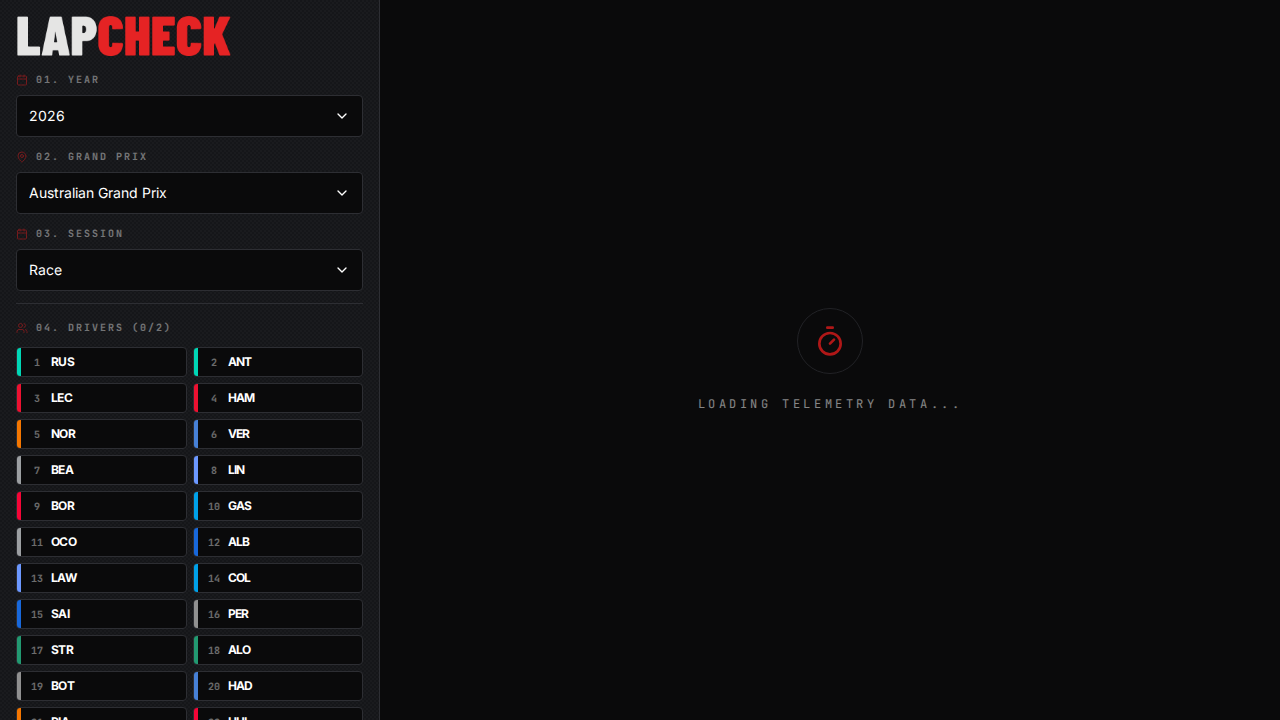
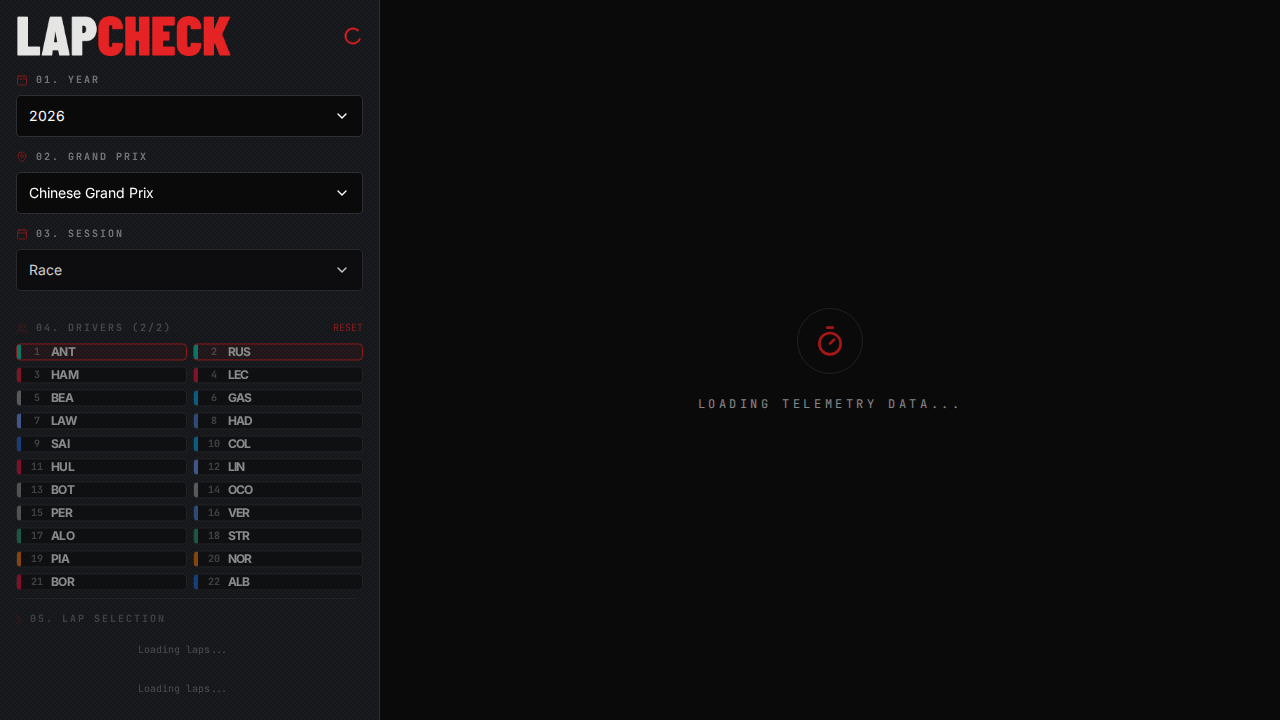
UI: Redesign sidebar to fill full height without scrolling
- Modified the left sidebar container to utilize strict `flex-col` layout with `overflow-hidden` to prevent overall vertical scrolling.
- Updated the "04. Drivers" section to use `flex-1` and `auto-rows-[1fr]`, dynamically stretching the driver grid to evenly consume the remaining vertical space regardless of grid size (20, 22, etc.).
- Simplified the "05. Lap Selection" dropdowns by removing their surrounding box and padding, directly using `<CustomDropdown>` for a flatter, more minimal appearance consistent with the top section.
- Added `openUpwards={true}` to the Lap Selection dropdowns so they open upwards, avoiding bottom screen cutoffs.

diff --git a/src/App.tsx b/src/App.tsx
@@ -489,15 +489,15 @@ export default function App() {
       </AnimatePresence>
 
       <main className="flex flex-col-reverse lg:grid lg:grid-cols-[380px_1fr] flex-1 lg:overflow-hidden">
-        <aside className="border-t lg:border-t-0 lg:border-r border-dark-border lg:h-full carbon-pattern overflow-y-auto no-scrollbar relative flex flex-col">
-          <div className="p-3 lg:p-4 h-full flex flex-col relative z-10">
-            <div className="flex items-center justify-between mb-4">
+        <aside className="border-t lg:border-t-0 lg:border-r border-dark-border lg:h-full carbon-pattern lg:overflow-hidden no-scrollbar relative flex flex-col">
+          <div className="p-3 lg:p-4 h-full flex flex-col relative z-10 lg:overflow-hidden">
+            <div className="flex items-center justify-between mb-4 shrink-0">
               <img src="https://storage.googleapis.com/lap-check-images/lap_logo.png?v=3" alt="Lap-Check Logo" className="h-10 w-auto" referrerPolicy="no-referrer" />
               {isAnyLoading && <Loader2 className="w-5 h-5 animate-spin text-f1-red" />}
             </div>
 
-            <motion.div initial={{ opacity: 0, y: 20 }} animate={{ opacity: 1, y: 0 }} className="flex-1 flex flex-col space-y-3 bg-dark-surface/40 p-3 rounded-xl lg:bg-transparent lg:p-0 lg:rounded-none border border-dark-border lg:border-0 mb-2 lg:mb-0 min-h-0">
-              <div className="space-y-3">
+            <motion.div initial={{ opacity: 0, y: 20 }} animate={{ opacity: 1, y: 0 }} className="flex-1 flex flex-col gap-3 bg-dark-surface/40 p-3 rounded-xl lg:bg-transparent lg:p-0 lg:rounded-none border border-dark-border lg:border-0 mb-2 lg:mb-0 min-h-0 lg:overflow-hidden">
+              <div className="space-y-3 shrink-0">
                 <CustomDropdown label="01. Year" icon={<Calendar className="w-3 h-3 text-f1-red" />} options={YEARS} value={year} onChange={setYear} getLabel={(y) => y.toString()} getKey={(y) => y} disabled={loadingMeetings} />
                 <CustomDropdown label="02. Grand Prix" icon={<MapPin className="w-3 h-3 text-f1-red" />} options={meetings} value={selectedMeeting} onChange={setSelectedMeeting} getLabel={(m) => m.meeting_name} getKey={(m) => m.round} placeholder="Select Grand Prix" disabled={loadingSessions} />
                 <AnimatePresence>
@@ -511,8 +511,8 @@ export default function App() {
 
               <AnimatePresence>
                 {selectedSession && results.length > 0 && (
-                  <motion.section initial={{ opacity: 0, y: 20 }} animate={{ opacity: 1, y: 0 }} className="pt-4 border-t border-dark-border">
-                    <div className="flex items-center justify-between mb-3">
+                  <motion.section initial={{ opacity: 0, y: 20 }} animate={{ opacity: 1, y: 0 }} className="pt-3 border-t border-dark-border flex-1 flex flex-col min-h-0">
+                    <div className="flex items-center justify-between mb-2 shrink-0">
                       <div className="flex items-center gap-2 opacity-40 uppercase text-[10px] font-mono font-bold tracking-[0.2em]">
                         <Users className="w-3 h-3 text-f1-red" />
                         <span>04. Drivers ({selectedDrivers.length}/2)</span>
@@ -520,9 +520,9 @@ export default function App() {
                       {selectedDrivers.length > 0 && <button onClick={() => { setSelectedDrivers([]); setSelectedLaps({}); }} className="text-[10px] font-mono uppercase text-f1-red hover:underline">Reset</button>}
                     </div>
                     
-                    <div className="grid grid-cols-2 gap-1.5">
+                    <div className="grid grid-cols-2 gap-1.5 flex-1 min-h-0 auto-rows-[1fr]">
                       {results.map((d) => (
-                        <button key={d.DriverNumber} onClick={() => handleDriverToggle(d.DriverNumber)} className={cn("relative overflow-hidden group flex items-center justify-between px-2 py-1.5 border rounded-sm transition-all", selectedDrivers.includes(d.DriverNumber) ? "bg-f1-red/10 text-white border-f1-red" : "bg-dark-bg border-dark-border hover:border-f1-red/50")}>
+                        <button key={d.DriverNumber} onClick={() => handleDriverToggle(d.DriverNumber)} className={cn("relative h-full overflow-hidden group flex items-center justify-between px-2 py-1 border rounded-sm transition-all", selectedDrivers.includes(d.DriverNumber) ? "bg-f1-red/10 text-white border-f1-red" : "bg-dark-bg border-dark-border hover:border-f1-red/50")}>
                           <div className="absolute left-0 top-0 bottom-0 w-1 transition-all group-hover:w-1.5" style={{ backgroundColor: `#${d.TeamColor || '888'}` }} />
                           <div className="pl-1.5 flex items-center gap-2">
                             <span className="font-mono font-bold text-[10px] w-3 text-center text-white/40">{d.Position}</span>
@@ -535,8 +535,8 @@ export default function App() {
                 )}
 
                 {selectedDrivers.length > 0 && (
-                  <motion.section key="sidebar-lap-selection" initial={{ opacity: 0, x: -20 }} animate={{ opacity: 1, x: 0 }} className="mt-4 pt-4 border-t border-dark-border">
-                    <div className="flex items-center gap-2 opacity-40 uppercase text-[10px] font-mono font-bold tracking-[0.2em] mb-3">
+                  <motion.section key="sidebar-lap-selection" initial={{ opacity: 0, x: -20 }} animate={{ opacity: 1, x: 0 }} className="pt-3 border-t border-dark-border shrink-0">
+                    <div className="flex items-center gap-2 opacity-40 uppercase text-[10px] font-mono font-bold tracking-[0.2em] mb-2">
                       <Timer className="w-3 h-3 text-f1-red" />
                       <span>05. Lap Selection</span>
                     </div>
@@ -546,13 +546,11 @@ export default function App() {
                         const laps = availableLaps[num] || [];
                         const isLoadingLaps = lapQueries[idx]?.isLoading;
 
-                        if (isLoadingLaps) return <div key={num} className="text-xs text-center opacity-50 font-mono py-2">Loading laps...</div>;
+                        if (isLoadingLaps) return <div key={num} className="text-[10px] text-center opacity-50 font-mono py-2">Loading laps...</div>;
                         if (laps.length === 0) return null;
 
                         return (
-                          <div key={`sidebar-lap-${num}`} className="bg-dark-bg border border-dark-border p-2 rounded-sm">
-                            <CustomDropdown label={`LAP FOR ${d?.Abbreviation}`} icon={<Timer className="w-3 h-3 text-f1-red" />} options={laps} value={selectedLaps[num] || null} onChange={(lap) => setSelectedLaps(prev => ({ ...prev, [num]: lap }))} getLabel={(l) => `Lap ${l.LapNumber} (${formatLapTime(l.LapTime)}) [${l.Compound}]`} getKey={(l) => l.LapNumber} maxItems={5} />
-                          </div>
+                          <CustomDropdown key={`sidebar-lap-${num}`} label={`${d?.Abbreviation}`} icon={<span className="w-1.5 h-1.5 rounded-full" style={{ backgroundColor: `#${d?.TeamColor || '888'}` }} />} options={laps} value={selectedLaps[num] || null} onChange={(lap) => setSelectedLaps(prev => ({ ...prev, [num]: lap }))} getLabel={(l) => `L${l.LapNumber} - ${formatLapTime(l.LapTime)} [${l.Compound}]`} getKey={(l) => l.LapNumber} maxItems={4} openUpwards={true} />
                         );
                       })}
                     </div>

diff --git a/verify.py b/verify.py
@@ -1,21 +1,23 @@
 from playwright.sync_api import sync_playwright
 
-def verify_app_loads(page):
-    page.goto("http://localhost:3000/")
-
-    # Warte darauf, dass die Telemetrie-App geladen wird und kein Loading-Spinner mehr da ist
-    # Wir erwarten "Initializing" im Startbildschirm (sobald die Daten noch laden),
-    # aber wir warten stattdessen lieber auf den Text "Awaiting Telemetry Input" oder "Live Analysis"
-    page.wait_for_timeout(5000) # Grobe Zeit, um die App zu initialisieren
-
-    # Erstelle Screenshot
-    page.screenshot(path="verification.png")
-
-if __name__ == "__main__":
+def verify_frontend():
     with sync_playwright() as p:
         browser = p.chromium.launch(headless=True)
         page = browser.new_page()
-        try:
-            verify_app_loads(page)
-        finally:
-            browser.close()
+
+        # Gehe zur App
+        page.goto("http://localhost:3000/")
+
+        # Warte, bis die App geladen ist und zumindest die Year-Auswahl sichtbar ist
+        page.wait_for_selector("text=01. Year", timeout=15000)
+
+        # Warte einen Moment, damit die Daten geladen werden und das Layout sich anpasst
+        page.wait_for_timeout(3000)
+
+        # Mache einen Screenshot
+        page.screenshot(path="verification.png", full_page=True)
+
+        browser.close()
+
+if __name__ == "__main__":
+    verify_frontend()

diff --git a/verify2.py b/verify2.py
@@ -1,0 +1,32 @@
+from playwright.sync_api import sync_playwright
+
+def verify_frontend():
+    with sync_playwright() as p:
+        browser = p.chromium.launch(headless=True)
+        # Wir können ein größeres Fenster setzen, um sicherzustellen, dass es wie auf einem Desktop aussieht
+        page = browser.new_page(viewport={"width": 1280, "height": 800})
+
+        page.goto("http://localhost:3000/")
+
+        # Warte, bis die App geladen ist und zumindest die Year-Auswahl sichtbar ist
+        page.wait_for_selector("text=01. Year", timeout=30000)
+
+        # Warte, bis die Fahrer-Liste da ist
+        page.wait_for_selector("text=04. Drivers", timeout=30000)
+
+        # Warte bis die Laps nicht mehr laden (d.h. "Loading laps..." verschwindet, oder ein L1 - taucht auf)
+        # Da wir die "ANT" und "RUS" default selektiert haben, müsste bald ein L(Zahl) - auftauchen
+        try:
+            page.wait_for_selector("text=L1 -", timeout=45000)
+        except Exception:
+            pass # Wenn es fehlschlägt, mache trotzdem einen Screenshot
+
+        # Warte noch 2 Sekunden
+        page.wait_for_timeout(2000)
+
+        page.screenshot(path="verification2.png", full_page=True)
+
+        browser.close()
+
+if __name__ == "__main__":
+    verify_frontend()
